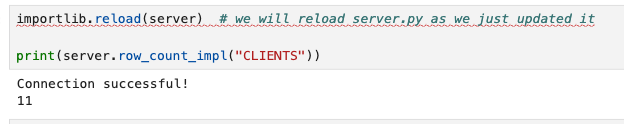
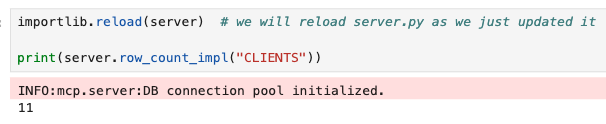
Updating Grammar for Energy, FSI and MCP Labs for AI Experience (#675)
* updating instructions for retail

* updates to healthcare markdown

* retail lab 1

most of screen shots are finished besides PDFS and last task

* screenshots for lab 1 and intro video

* lab 4 screenshots

* fix lab 4 and manifest files for retail and healthcare

* lab 1 screenshots

* incorporated feedback from Retail experts

* lab 1 markdown- healthcare

* lab 4 and 1 updates

* lab 4 and 1 updates

* lab 4 and 1 updates

* retail lab 4

* healthcare lab 4

* take out graph

* changes implemented from UAT

* created folder for energy and updates to lab 1

* energy and utilities lab 4 update

* added graph to retail, healthcare, and e&u. updated retail lab 4

* manufacturing lab 4 and high tech lab 1

* manufacturing and graph for other industries

* high tech lab 4

* getting rid of unnecessary comments

* manufacturing lab 1

* final markdown changes

* gaming markdown

* creating lab changes for ai experience

* updated intro.md

* bolding sections

* updating grammar for fsi, energy and mcp labs

diff --git a/dev-ai-app-dev-energyutilities-aiexperience/user-story/user-story.md b/dev-ai-app-dev-energyutilities-aiexperience/user-story/user-story.md
@@ -2,7 +2,7 @@
 
 ## Introduction
 
-Act as a Grid Engineer Advisor using an AI powered DER approval platform running on Oracle AI Database. Discover how Generative AI, Vector Search, Graph Analytics, and JSON Duality Views instantly analyze inverter specs, feeder capacity, and compliance rules, replacing monthlong manual studies with automated, data in place insights.
+Act as a **Grid Engineer Advisor** using an AI powered DER approval platform running on Oracle AI Database. Discover how Generative AI, Vector Search, Graph Analytics, and JSON Duality Views instantly analyze inverter specs, feeder capacity, and compliance rules, replacing monthlong manual studies with automated, data in place insights.
 
 **Disclaimer**: Please note that your results may vary. The information provided is generated by OCI Generative AI services, and your outcomes may differ from those presented.
 
@@ -12,7 +12,7 @@ Estimated Lab Time: 30 minutes
 
 In this lab, you will:
 
-* Review how the Seer Energy Grid Interconnection app incorporates the use of JSON Duality Views, Graph analytics, and other converged database features, all without requiring complex data movement or separate systems.
+* Review how the Seer Energy **Grid Interconnection app** incorporates the use of JSON Duality Views, Graph analytics, and other converged database features, all without requiring complex data movement or separate systems.
 
 ### Prerequisites
 
@@ -22,11 +22,11 @@ This lab assumes you have:
 
 ## Task 1: Launch the application
 
-1. To access the demo environment, click **View Login Info** in the top left corner of the page. Click the **Start the Demo** link.
+1. To access the demo environment, click **Open Link** next to **Start the Demo.**
 
     ![Click the Start Demo Link](./images/start-demo.png =50%x*)
 
-2. Select **Energy & Utilities** under Industry and **Grid Engineer Advisor** under Role. Enter in a username and click **Login**.
+2. Select **Energy** under Industry and **Grid Engineer Advisor** under Role. Enter in a username and click **Login**.
 
     ![Login](./images/login.png =50%x*)
 
@@ -179,7 +179,7 @@ In this example, you will navigate the application to review a customer and deny
 
     ![Return to Dashboard](./images/nina-return-dashboard.png =50%x*)
 
-11. Expand **View In Progress Supplier**. You will see that Nina Wright has been moved from the **Pending Suppliers** list to the **Denied Suppliers** list.
+11. Expand **View Denied Supplier**. You will see that Nina Wright has been moved from the **Pending Suppliers** list to the **Denied Suppliers** list.
 
     ![Nina Denied List](./images/nina-denied-list.png =50%x*)
 
@@ -203,7 +203,11 @@ Lastly, let’s explore how the system uses JSON Duality Views to handle profile
 
 4. The supplier profile has been updated.
 
-    ![Customer Profile Updated](./images/profile-updated.png)
+    ![Customer Profile Updated](./images/profile-updated.png =50%x*)
+
+5. Refresh the page and note the updated analysis. The uploaded compliance document indicated "Fault current exceeds safe limits," resulting in a new DER recommendation — ChargePoint Express (EV Charger) now replaces Enphase IQ8 (Microinverter).
+
+    ![Customer Profile Updated](./images/updated-der.png =50%x*)
 
 **Task Summary**
 

diff --git a/dev-ai-app-dev-finance-aiexperience/user-story/user-story.md b/dev-ai-app-dev-finance-aiexperience/user-story/user-story.md
@@ -2,7 +2,7 @@
 
 ## Introduction
 
-In this lab, you will step into the role of a loan officer using a next-generation loan approval application powered by Oracle AI Database. You will work with real loan applications and see how Generative AI, Vector Search, and Graph analytics replace manual review with faster, AI-driven decision-making.
+In this lab, you will step into the role of a **loan officer** using a next-generation loan approval application powered by Oracle AI Database. You will work with real loan applications and see how Generative AI, Vector Search, and Graph analytics replace manual review with faster, AI-driven decision-making.
 
 **Disclaimer**: Please note that your results may vary. The information provided is generated by OCI Generative AI services, and your outcomes may differ from those presented.
 
@@ -12,7 +12,7 @@ Estimated Time: 30 minutes
 
 In this lab, you will:
 
-* Review how the Seer Equities Loan approval app incorporates the use of  JSON Duality Views, Graph analytics, and other converged database features, all without requiring complex data movement or separate systems.
+* Review how the Seer Equities **Loan approval app** incorporates the use of  JSON Duality Views, Graph analytics, and other converged database features, all without requiring complex data movement or separate systems.
 
 ### Prerequisites
 
@@ -22,11 +22,11 @@ This lab assumes you have:
 
 ## Task 1: Launch the application
 
-1. To access the demo environment, click **View Login Info** in the top left corner of the page. Click the **Start the Demo** link.
+1. To access the demo environment, click **Open Link** next to **Start the Demo.**
 
     ![Click the Start Demo Link](./images/start-demo.png =50%x*)
 
-2. Welcome to Seer Holdings! Select **Finance** as Industry and **Approval Officer** as role. Enter in a username and click **Login**.
+2. Welcome to Seer Holdings! Select **Financial Services** as Industry and **Approval Officer** as role. Enter in a username and click **Login.**
 
     ![Login](./images/flogin.png =50%x*)
 
@@ -61,7 +61,7 @@ In this first example, you will use the application to approve a customer with s
 
 >💡 In Oracle AI Database, **AI Vector Search** allows you to combine your business data with the Large Language Model (LLM) to reduce hallucinations and get accurate answers from your data.
 
-4. Select the **Navigate To Decisions** button.
+4. Select the **Navigate To Customer Decisions** button.
 
     ![James Smith Decision](./images/lab106.png =50%x*)
 
@@ -134,7 +134,7 @@ In this example, you will navigate the application to review a customer and deny
 
     ![James Woods AI generated recommendations](./images/lab132.png =50%x*)
 
-3. Select the **Navigate to Decisions** button.
+3. Select the **Navigate to Customer Decisions** button.
 
     ![James Woods Decision](./images/lab133.png =50%x*)
 
@@ -195,7 +195,7 @@ Lastly, let’s explore how the system uses JSON Duality Views to handle profile
 
     ![Upload Document](./images/anderson-25k.png =50%x*)
 
-3. The PDF file has been loaded. Click the **Process Selected PDF** button.
+3. The PDF file has been loaded. Click the **Process PDF** button.
 
     ![Click Process Selected PDF](./images/upload-anderson.png =50%x*)
 

diff --git a/dev-ai-app-dev-retail/mcp/mcp.md b/dev-ai-app-dev-retail/mcp/mcp.md
@@ -103,7 +103,7 @@ Internally uses helpers like \_clean\_llm_sql, read-only guards, and a row cap f
     </copy>
     ```
 
-    _There is not output expected_
+    _There is no output expected_
 
 
 5. Copy the following code and execute:
@@ -309,12 +309,12 @@ Internally uses helpers like \_clean\_llm_sql, read-only guards, and a row cap f
 
 You will add a row counter tool to quickly verify table sizes during investigations. It reuses the existing DB pool and identifier safety helpers.
 
-1. Open the folder **mcp** and double click **server.py**:
+1. Right-click the **mcp** folder and open **server.py**:
 
     ![Open server.py](./images/serverpy.png " ")
 
 
-2. Copy the following code and paste it append to the bottom of server.py—just above the `ENTRYPOINT` comment. Save the the file by clicking **CTRL+S (PC) / CMD+S (Mac)**.
+2. Copy the following code and paste it at the bottom of server.py—just above the `ENTRYPOINT` comment. Save the file by clicking **CTRL+S (PC) / CMD+S (Mac).**
 
     ```Python
     <copy>
@@ -348,11 +348,13 @@ You will add a row counter tool to quickly verify table sizes during investigati
 
     **What does it do?**
 
-    This snippet reloads the updated server.py module using importlib.reload so that newly added tools become available without restarting the notebook. It then calls the plain Python implementation row\_count_impl("CLIENTS"), which runs a SELECT COUNT(*) query on the CLIENTS table and returns the total number of rows.
+   This snippet reloads the updated server.py module using importlib.reload so that newly added tools become available without restarting the notebook. It then calls the plain Python implementation row_count_impl("CLIENTS"), which runs a SELECT COUNT(*) query on the CLIENTS table and returns the total number of rows.
 
-    What makes MCP powerful here is that we created simple function that returns the number of rows in a given table and exposed it as an MCP tool. That means Seer Holding developers can use functions in MCP workflows including agentic workflows.
+   What makes MCP powerful here is that we created a simple function that returns the number of rows in a given table and exposed it as an MCP tool. That means Seer Holdings developers can use functions in MCP workflows including agentic workflows.
 
-    ![rows](./images/numberrows.png " ")
+   You should see a connection message (such as "INFO:mcp.server:DB connection pool initialized.") followed by the row count (11).
+   
+    ![new tool](./images/numberrows.png " ")
 
 
 ## Conclusion

diff --git a/dev-ai-app-dev-energyutilities-aiexperience/introduction/introduction.md b/dev-ai-app-dev-energyutilities-aiexperience/introduction/introduction.md
@@ -12,7 +12,7 @@ You’ll see how SeerGroup’s teams can move from manual, fragmented workflows 
 
 ✅ **Start with the demo! (Lab 1)**
 
-Step into SeerGroup’s Energy & Utilities division as a Grid Engineer Advisor. You’ll use an AI-powered DER (Distributed Energy Resources) approval app built on Oracle AI Database to:
+Step into SeerGroup’s Energy division as a Grid Engineer Advisor. You’ll use an AI-powered DER (Distributed Energy Resources) approval app built on Oracle AI Database to:
 
 * Review supplier interconnection requests with AI Vector Search, Graph analytics, and RAG
 

diff --git a/dev-ai-app-dev-energyutilities-aiexperience/build/build.md b/dev-ai-app-dev-energyutilities-aiexperience/build/build.md
@@ -53,7 +53,7 @@ This lab assumes you have:
 
     ![Open Terminal](./images/terminal.png " ")
 
-2. Navigate to `db_setup_ENG_script_2.sql` under the `dbinit` folder. Here is where you can see all the tables that will be created for the healthcare industry. 
+2. Navigate to `db_setup_ENG_script_2.sql` under the `dbinit` folder. Here is where you can see all the tables that will be created for the energy industry.
 
     ![ENG-Table](./images/eng-table.png " ")
 
